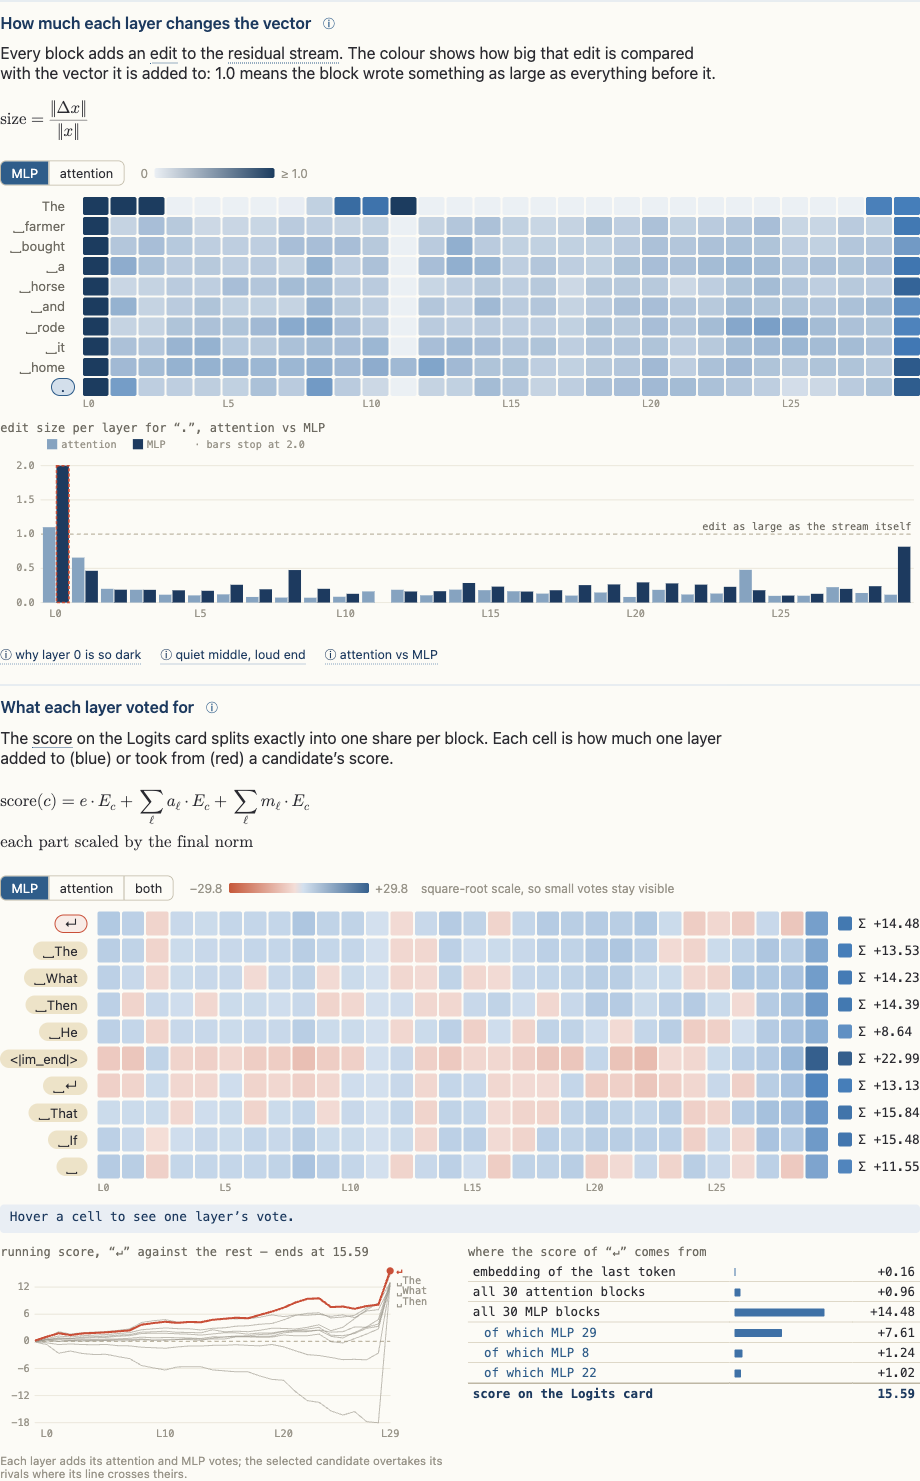
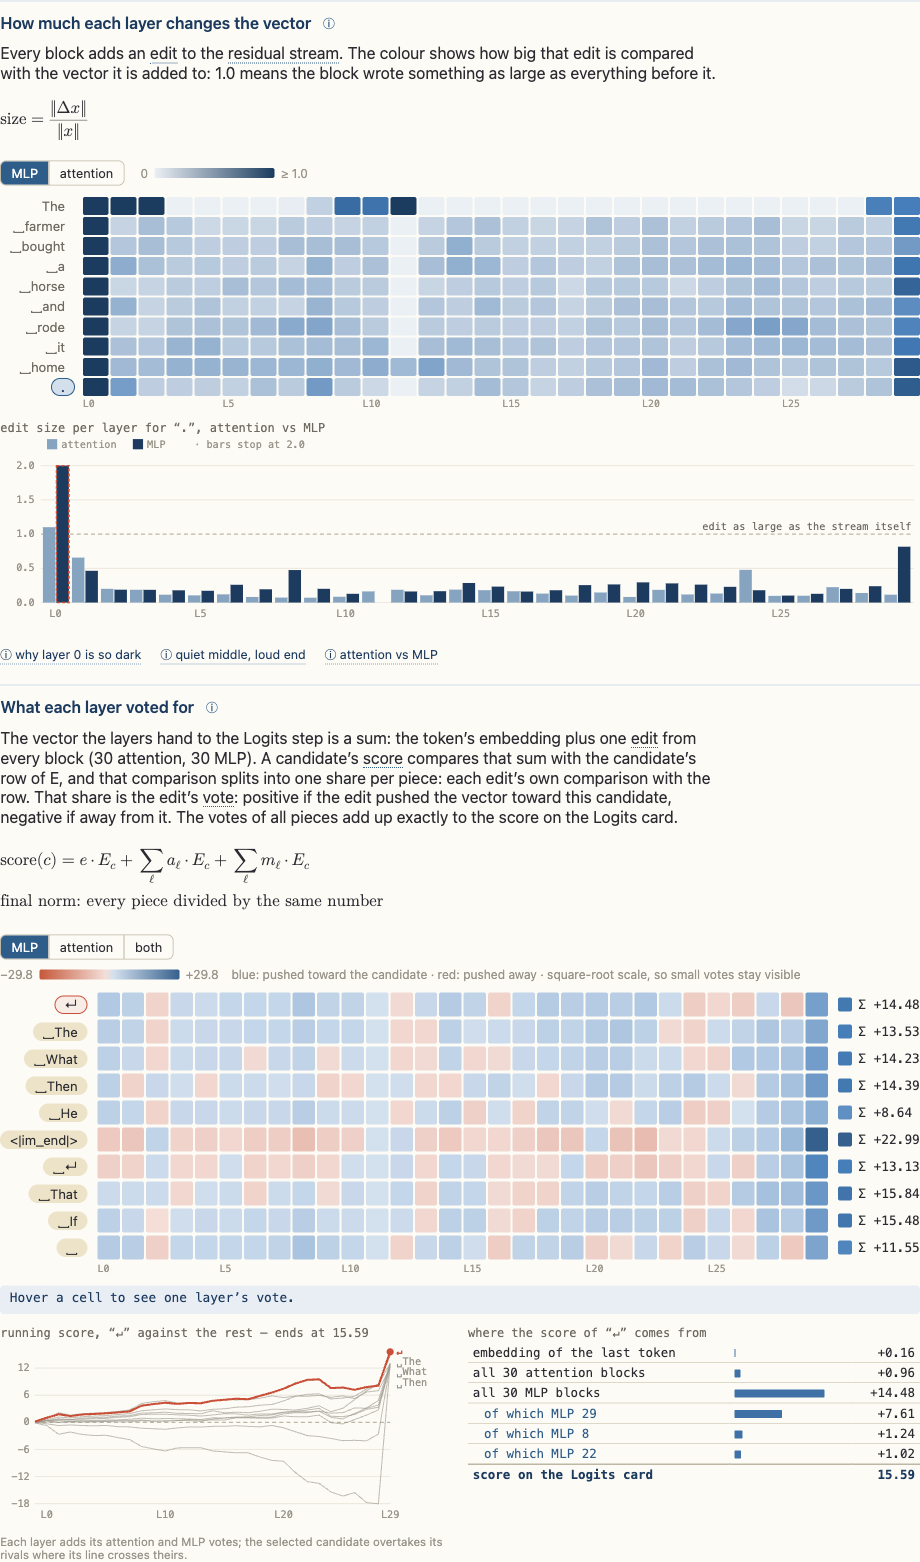
docs(votes): explain votes as each piece's share of the comparison with the candidate's row
The card caption now builds the idea from the pipeline: the final vector is
a sum of the embedding and 60 edits, the score compares it with the
candidate's row of E, and that comparison splits into one share per piece.
The glossary entry walks the same five steps with a figure: two edits
head to tail above the candidate's row, their shadows as votes adding up
to the score.

diff --git a/src/glossary/entries/votes.tsx b/src/glossary/entries/votes.tsx
@@ -1,5 +1,6 @@
 import { Formula } from '../../viz/Formula'
 import { visibleToken } from '../../viz/tokenText'
+import { VoteFigure } from '../figures/VoteFigure'
 import { Term } from '../Term'
 import type { GlossaryEntry } from '../types'
 
@@ -11,16 +12,36 @@ export const votes: GlossaryEntry = {
   related: ['logit', 'mlp', 'edit'],
   body: () => (
     <>
-      <p>A <Term id="logit">score</Term> is the final vector, after the final norm, dotted with the candidate’s row
-        of E. The final vector is a sum: the embedding plus every <Term id="edit">edit</Term>. If the norm were a
-        plain linear step, the score would split into one share per part.</p>
-      <p>At the last position the norm divides the whole vector by one number, its root mean square, and multiplies
-        each dimension by a fixed gain. Holding that number at its real value for this position makes the norm
-        linear, so the split is exact:</p>
+      <p>The Layers step hands one vector to the Logits step. It looks like a single block of 576 numbers, but it
+        was built piece by piece, and that is what lets you ask how much each layer contributed to one
+        candidate.</p>
+      <ol className="gl-steps">
+        <li><strong>The final vector is a sum.</strong> No layer replaces the vector; each block adds its{' '}
+          <Term id="edit">edit</Term> on top. So the vector is the token’s embedding plus 30 attention edits plus 30
+          MLP edits: 61 pieces of 576 numbers each.</li>
+        <li><strong>A score compares that sum with one row of E.</strong> The candidate’s{' '}
+          <Term id="logit">score</Term> is the dot product of the final vector with the candidate’s row of the
+          embedding matrix.</li>
+        <li><strong>The comparison splits over the sum.</strong> A dot product of a sum is the sum of the dot
+          products: (a + b) · E = a · E + b · E. So the score is the embedding’s comparison with the row plus each
+          edit’s comparison with it.</li>
+        <li><strong>Each of those terms is that piece’s vote.</strong> It says how much that one edit pushed the
+          vector toward the candidate’s row (positive) or away from it (negative). The same edit votes differently
+          for every candidate, because each candidate has its own row.</li>
+        <li><strong>The final norm keeps the split exact.</strong> Before the comparison, the norm divides the whole
+          vector by one number, its root mean square, and multiplies each dimension by a fixed weight. Applying that
+          to every piece separately gives the same result, so the votes still add up to the score exactly.</li>
+      </ol>
+      <VoteFigure />
       <Formula tex={String.raw`\begin{aligned} \text{score}(c) &= \tilde e \cdot E_c + \sum_{\ell} \tilde a_\ell \cdot E_c + \sum_{\ell} \tilde m_\ell \cdot E_c \\ \tilde v &= g \odot v \,/\, \operatorname{rms}(x) \end{aligned}`} />
-      <p>Each term is one block’s vote. A positive vote raised the score; a negative one lowered it. The votes card
-        shows the MLP votes per layer, and a running total that adds the embedding first, then each layer’s
-        attention vote and MLP vote in order. It ends exactly on the Logits card’s score.</p>
+      <p>In the formula, <Formula inline tex={String.raw`e`} /> is the embedding,{' '}
+        <Formula inline tex={String.raw`a_\ell`} /> and <Formula inline tex={String.raw`m_\ell`} /> are the attention
+        and MLP edits of layer <Formula inline tex={String.raw`\ell`} />, <Formula inline tex={String.raw`E_c`} /> is
+        the candidate’s row of E, and the tilde marks a piece after the final norm’s scaling
+        (<Formula inline tex="g" /> is its weight, <Formula inline tex={String.raw`\operatorname{rms}(x)`} /> the one
+        number it divides by).</p>
+      <p>The votes card shows these votes per layer and a running total: the embedding first, then each layer’s
+        attention and MLP votes in order. It ends exactly on the Logits card’s score.</p>
       <p className="gl-aside">This is related to, but not the same as, the <em>logit lens</em>, which applies the
         final norm again to every partial sum. That shows what the model would predict if it stopped at a layer,
         but its steps do not add up to the final score.</p>

diff --git a/src/glossary/figures/VoteFigure.tsx b/src/glossary/figures/VoteFigure.tsx
@@ -1,0 +1,38 @@
+// Two edits added head to tail above the candidate's row of E, drawn as a
+// horizontal axis: each edit's vote is how far it reaches along that axis
+// (its shadow). Edit a reaches forward (a positive vote), edit b back (a
+// negative one); the stacked bars below show the shadows adding up to the
+// sum's shadow, which is the score.
+const AXIS_Y = 112, O = 30
+const A = { x: 180, y: -72 }   // edit a, from the origin
+const B = { x: -70, y: -26 }   // edit b, from a's tip
+
+export function VoteFigure() {
+  const tipA = { x: O + A.x, y: AXIS_Y + A.y }
+  const tipS = { x: tipA.x + B.x, y: tipA.y + B.y }
+  return (
+    <svg data-testid="gl-votes-figure" className="gl-votes-figure" viewBox="0 0 320 186" width="320" height="186" role="img"
+      aria-label="Two edits added head to tail; each one's shadow on the candidate's row is its vote, and the shadows add up to the score">
+      <defs>
+        <marker id="gl-vote-head" viewBox="0 0 8 8" refX="7" refY="4" markerWidth="7" markerHeight="7" orient="auto-start-reverse">
+          <path d="M0,0 L8,4 L0,8 z" className="gl-vote-headfill" />
+        </marker>
+      </defs>
+      <line x1={O - 10} y1={AXIS_Y} x2={300} y2={AXIS_Y} className="gl-vote-row" markerEnd="url(#gl-vote-head)" />
+      <text x={300} y={AXIS_Y - 6} textAnchor="end" className="gl-vote-label">candidate’s row of E</text>
+      <line x1={tipA.x} y1={tipA.y} x2={tipA.x} y2={AXIS_Y + 26} className="gl-vote-drop" />
+      <line x1={tipS.x} y1={tipS.y} x2={tipS.x} y2={AXIS_Y + 62} className="gl-vote-drop" />
+      <line x1={O} y1={AXIS_Y} x2={tipA.x} y2={tipA.y} className="gl-vote-edit" markerEnd="url(#gl-vote-head)" />
+      <line x1={tipA.x} y1={tipA.y} x2={tipS.x} y2={tipS.y} className="gl-vote-edit" markerEnd="url(#gl-vote-head)" />
+      <text x={O + A.x * 0.42} y={AXIS_Y + A.y * 0.42 - 8} textAnchor="end" className="gl-vote-label">edit a</text>
+      <text x={tipA.x + B.x * 0.5 - 4} y={tipA.y + B.y * 0.5 - 8} textAnchor="end" className="gl-vote-label">edit b</text>
+      <line x1={O} y1={AXIS_Y + 20} x2={tipA.x} y2={AXIS_Y + 20} className="gl-vote-share-pos" />
+      <text x={tipA.x + 6} y={AXIS_Y + 24} className="gl-vote-label gl-vote-pos">vote of a (+)</text>
+      <line x1={tipA.x} y1={AXIS_Y + 38} x2={tipS.x} y2={AXIS_Y + 38} className="gl-vote-share-neg" />
+      <text x={tipA.x + 6} y={AXIS_Y + 42} className="gl-vote-label gl-vote-neg">vote of b (−)</text>
+      <line x1={O} y1={AXIS_Y + 56} x2={tipS.x} y2={AXIS_Y + 56} className="gl-vote-total" />
+      <text x={tipS.x + 6} y={AXIS_Y + 60} className="gl-vote-label">score = sum of the votes</text>
+      <circle cx={O} cy={AXIS_Y} r={2.5} className="gl-vote-headfill" />
+    </svg>
+  )
+}

diff --git a/src/viz/LayerVotesCard.tsx b/src/viz/LayerVotesCard.tsx
@@ -57,10 +57,13 @@ function VotesBody({ candidates, selected, onSelect }: {
   const columns = { gridTemplateColumns: `repeat(${layers}, 1fr)` }
   return (
     <>
-      <p className="mlp-caption">The <Term id="logit">score</Term> on the Logits card splits exactly into one
-        share per block. Each cell is how much one layer added to (blue) or took from (red) a candidate’s
-        score.</p>
-      <Formula testId="votes-formula" className="card-formula" inline tex={String.raw`\displaystyle \begin{aligned} &\text{score}(c) = e \cdot E_c + \sum_{\ell} a_\ell \cdot E_c + \sum_{\ell} m_\ell \cdot E_c \\ &\text{each part scaled by the final norm} \end{aligned}`} />
+      <p className="mlp-caption">The vector the layers hand to the Logits step is a sum: the token’s embedding plus
+        one <Term id="edit">edit</Term> from every block (30 attention, 30 MLP). A candidate’s{' '}
+        <Term id="logit">score</Term> compares that sum with the candidate’s row of E, and that comparison splits into
+        one share per piece: each edit’s own comparison with the row. That share is the edit’s{' '}
+        <Term id="votes">vote</Term>: positive if the edit pushed the vector toward this candidate, negative if away
+        from it. The votes of all pieces add up exactly to the score on the Logits card.</p>
+      <Formula testId="votes-formula" className="card-formula" inline tex={String.raw`\displaystyle \begin{aligned} &\text{score}(c) = e \cdot E_c + \sum_{\ell} a_\ell \cdot E_c + \sum_{\ell} m_\ell \cdot E_c \\ &\text{final norm: every piece divided by the same number} \end{aligned}`} />
       <div className="mlp-controls">
         <div className="mlp-seg" role="group" aria-label="Which blocks">
           {(['mlp', 'attn', 'both'] as const).map((b) => (
@@ -70,7 +73,8 @@ function VotesBody({ candidates, selected, onSelect }: {
         </div>
         <div data-testid="votes-legend" className="mlp-legend">−{peak.toFixed(1)}{' '}
           <span className="mlp-ramp-diverging" aria-hidden="true" /> +{peak.toFixed(1)}
-          <span className="mlp-legend-note">square-root scale, so small votes stay visible</span></div>
+          <span className="mlp-legend-note">blue: pushed toward the candidate · red: pushed away ·
+            square-root scale, so small votes stay visible</span></div>
       </div>
       <div className="votes-grid" role="group" aria-label={`${BLOCKS_NAME[blocks]} votes, candidates by layers`}
         onMouseLeave={() => setHover(null)}>

diff --git a/src/index.css b/src/index.css
@@ -403,6 +403,19 @@ input[type="number"] { width: 4rem; }
 .gl-figure { display: flex; align-items: center; gap: .5rem; flex-wrap: wrap; margin: .6rem 0; font-family: var(--mono); }
 .gl-example { display: flex; flex-wrap: wrap; align-items: center; gap: .3rem; }
 .gl-aside { font-size: .8rem; color: var(--ink-soft); }
+.gl-steps { padding-left: 1.3rem; margin: .5rem 0; display: grid; gap: .45rem; }
+.gl-steps li::marker { color: var(--ai); font-weight: 600; }
+.gl-votes-figure { display: block; max-width: 100%; height: auto; margin: .5rem 0; }
+.gl-vote-row { stroke: var(--ai-soft); stroke-width: 1.5; stroke-dasharray: 5 3; }
+.gl-vote-edit { stroke: var(--ink); stroke-width: 1.8; }
+.gl-vote-headfill { fill: var(--ink); }
+.gl-vote-drop { stroke: var(--ink-faint); stroke-width: .8; stroke-dasharray: 2 2; }
+.gl-vote-share-pos { stroke: hsl(211 45% 45%); stroke-width: 4; }
+.gl-vote-share-neg { stroke: var(--shu); stroke-width: 4; }
+.gl-vote-total { stroke: var(--ai-deep); stroke-width: 4; }
+.gl-vote-label { font-size: 10px; fill: var(--ink-soft); font-family: var(--mono); }
+.gl-vote-pos { fill: hsl(211 45% 40%); }
+.gl-vote-neg { fill: var(--shu); }
 @media (prefers-reduced-motion: reduce) { .gl-section { transition: none; } }
 
 /* ── Glossary drawer ─────────────────────────────────────────────────── */

diff --git a/src/viz/LayerVotesCard.test.tsx b/src/viz/LayerVotesCard.test.tsx
@@ -120,3 +120,12 @@ test('with many candidates only the selected one and the four highest final scor
     .toEqual(['␣c0', '␣c1', '␣c2', '␣c3', '␣c7'])
   expect(screen.getAllByTestId('vote-line')).toHaveLength(8)
 })
+
+test('the caption explains the vote as each piece’s share of the comparison with the candidate’s row', () => {
+  render(<LayerVotesCard candidates={cands} note="unused" />)
+  const card = screen.getByTestId('votes-card')
+  expect(card).toHaveTextContent('The vector the layers hand to the Logits step is a sum')
+  expect(card).toHaveTextContent('positive if the edit pushed the vector toward this candidate, negative if away from it')
+  expect(texOf(screen.getByTestId('votes-formula'))).toContain('divided by the same number')
+  expect(screen.getByTestId('votes-legend')).toHaveTextContent('blue: pushed toward the candidate · red: pushed away')
+})

diff --git a/src/glossary/registry.test.tsx b/src/glossary/registry.test.tsx
@@ -162,3 +162,10 @@ test('In this run lines show whitespace tokens with their glyphs', () => {
     cleanup()
   }
 })
+
+test('the votes entry builds the idea in steps, with a figure of two edits and their shares', () => {
+  const { container } = render(<>{getEntry('votes')!.body()}</>)
+  expect(container.querySelectorAll('ol.gl-steps > li')).toHaveLength(5)
+  expect(container.querySelector('[data-testid="gl-votes-figure"]')).not.toBeNull()
+  expect(container.textContent).toMatch(/\(a \+ b\) · E = a · E \+ b · E/)
+})
